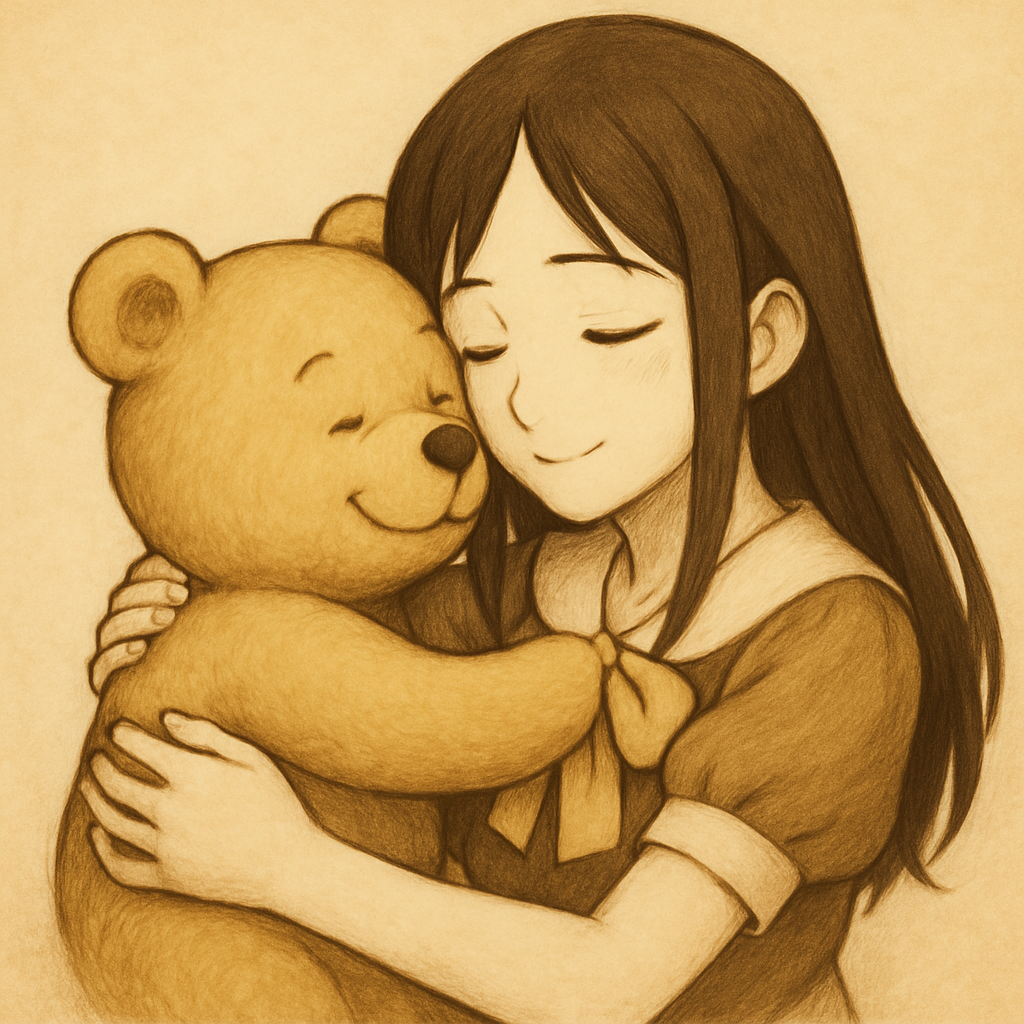
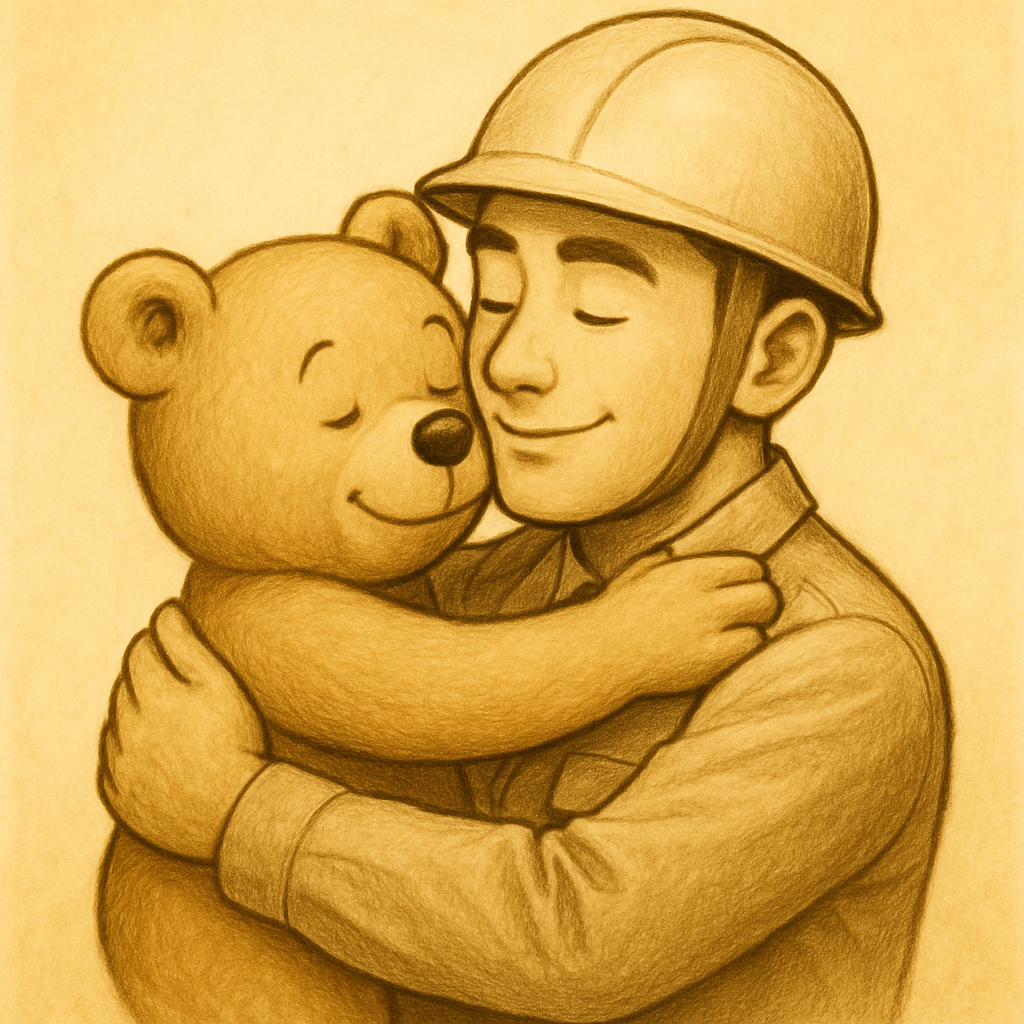
added shaking hands picture

diff --git a/plush_memory_new.html b/plush_memory_new.html
@@ -1,0 +1,105 @@
+<!DOCTYPE html>
+<html lang="ja">
+<head>
+  <meta charset="UTF-8">
+  <title>Plush Memory</title>
+  <style>
+    body {
+      margin: 0;
+      background-color: #fefaf5;
+      overflow: hidden;
+    }
+
+    #image-container {
+      position: relative;
+      width: 100vw;
+      height: 100vh;
+      display: none;
+    }
+
+    .memory-img-wrapper {
+      background: white;
+      padding: 8px 8px 24px 8px;
+      border-radius: 6px;
+      box-shadow: 0 4px 10px rgba(0, 0, 0, 0.3);
+      position: absolute;
+      opacity: 0;
+      animation: fadeIn 1s forwards;
+      transition: transform 0.5s;
+    }
+
+    .memory-img {
+      width: 100%;
+      height: auto;
+      display: block;
+      border-radius: 3px;
+    }
+
+    @keyframes fadeIn {
+      to { opacity: 1; }
+    }
+  </style>
+</head>
+<body>
+  <div id="image-container"></div>
+
+  <script>
+    const ws = new WebSocket("ws://localhost:8765");
+
+    ws.onmessage = function(event) {
+      if (!event.data.startsWith("SHOW_IMAGE")) return;
+
+      const parts = event.data.split(":");
+      const kind = parts[1];  // "head" or "hand"
+      const ids = parts[2].split(",");
+      const latestId = ids[ids.length - 1];
+      const container = document.getElementById("image-container");
+      container.innerHTML = "";
+
+      const positions = [
+        { top: "15%", left: "15%" },
+        { top: "45%", left: "20%" },
+        { top: "75%", left: "18%" },
+        { top: "80%", left: "50%" },
+        { top: "85%", left: "75%" },
+        { top: "18%", left: "75%" },
+        { top: "43%", left: "78%" }
+      ];
+
+      ids.forEach(id => {
+        const wrapper = document.createElement("div");
+        wrapper.className = "memory-img-wrapper";
+
+        const img = document.createElement("img");
+        img.src = `data/images/generated_image_${id}_${kind}.png`;
+        img.className = "memory-img";
+        wrapper.appendChild(img);
+
+        if (id === latestId) {
+          wrapper.style.position = "fixed";
+          wrapper.style.top = "40%";
+          wrapper.style.left = "50%";
+          wrapper.style.transform = "translate(-50%, -50%) scale(0.8)";
+          wrapper.style.zIndex = 100;
+        } else {
+          if (positions.length === 0) return;
+
+          const index = Math.floor(Math.random() * positions.length);
+          const pos = positions.splice(index, 1)[0];
+          wrapper.style.position = "fixed";
+          wrapper.style.top = pos.top;
+          wrapper.style.left = pos.left;
+
+          const scale = 0.45 + Math.random() * 0.1;
+          const angle = Math.random() * 40 - 20;
+          wrapper.style.transform = `translate(-50%, -50%) scale(${scale}) rotate(${angle}deg)`;
+        }
+
+        container.appendChild(wrapper);
+      });
+
+      container.style.display = "block";
+    };
+  </script>
+</body>
+</html>

diff --git a/scripts/touch_image_new.py b/scripts/touch_image_new.py
@@ -1,0 +1,65 @@
+#!/usr/bin/env python3
+import rospy
+from std_msgs.msg import Bool
+import asyncio
+import websockets
+import os
+import re
+
+clients = set()
+image_dir = os.path.join(os.path.dirname(__file__), "../data/images")
+
+def get_available_ids(kind):
+    pattern = fr"generated_image_(\d+)_{kind}\.png"
+    return sorted(
+        match.group(1)
+        for fname in os.listdir(image_dir)
+        if (match := re.match(pattern, fname))
+    )
+
+async def publish_to_web(kind):
+    ids = get_available_ids(kind)
+    if not ids:
+        rospy.loginfo(f"No {kind} images available.")
+        return
+    id_string = ",".join(ids)
+    message = f"SHOW_IMAGE:{kind}:{id_string}"
+    for client in clients.copy():
+        try:
+            await client.send(message)
+            rospy.loginfo(f"Sent {kind} image list")
+        except:
+            clients.remove(client)
+
+def callback_head(data):
+    if data.data:
+        asyncio.run_coroutine_threadsafe(publish_to_web("head"), loop)
+
+def callback_hand(data):
+    if data.data:
+        asyncio.run_coroutine_threadsafe(publish_to_web("hand"), loop)
+
+async def handler(websocket, path):
+    clients.add(websocket)
+    try:
+        await websocket.wait_closed()
+    finally:
+        clients.remove(websocket)
+
+async def main():
+    rospy.init_node('touch_listener', anonymous=True)
+    rospy.Subscriber("/head_touch_trigger", Bool, callback_head)
+    rospy.Subscriber("/hand_touch_trigger", Bool, callback_hand)
+
+    start_server = await websockets.serve(handler, "localhost", 8765)
+    rospy.loginfo("WebSocket server started at ws://localhost:8765/")
+
+    while not rospy.is_shutdown():
+        await asyncio.sleep(0.1)
+
+    start_server.close()
+    await start_server.wait_closed()
+
+if __name__ == '__main__':
+    loop = asyncio.get_event_loop()
+    loop.run_until_complete(main())

diff --git a/scripts/touch_image.py b/scripts/touch_image.py
@@ -31,7 +31,7 @@ async def handler(websocket, path):
 
 async def publish_to_web(data):
     if data.data:
-        rospy.loginfo("head_touch=true")
+        rospy.loginfo("head_touch_trigger=true")
         ids = get_available_ids()
         id_string = ",".join(ids)
         message = f"SHOW_IMAGE:{id_string}"
@@ -47,7 +47,7 @@ def callback(data):
 
 async def main():
     rospy.init_node('head_touch_listener', anonymous=True)
-    rospy.Subscriber("/head_touch", Bool, callback)
+    rospy.Subscriber("/head_touch_trigger", Bool, callback)
 
     start_server = await websockets.serve(handler, "localhost", 8765)
     rospy.loginfo("WebSocket server started at ws://localhost:8765/")

diff --git a/scripts/illustration_and_combine_new.py b/scripts/illustration_and_combine_new.py
@@ -17,7 +17,7 @@ headers = {
 
 # === プロンプト定義 ===
 prompts = {
-    "shake": "Please draw this yellow bear shaking hands with this human character. Please draw in the same color tone as the bear.",
+    "hand": "Please draw this yellow bear shaking hands with this human character. Please draw in the same color tone as the bear.",
     "hug": "Please draw this yellow bear hugging with this human character. Please draw in the same color tone as the bear.",
     "head": "Please draw this human character touching the head of this yellow bear. Please draw in the same color tone as the bear. The human character should be smiling."
 }
